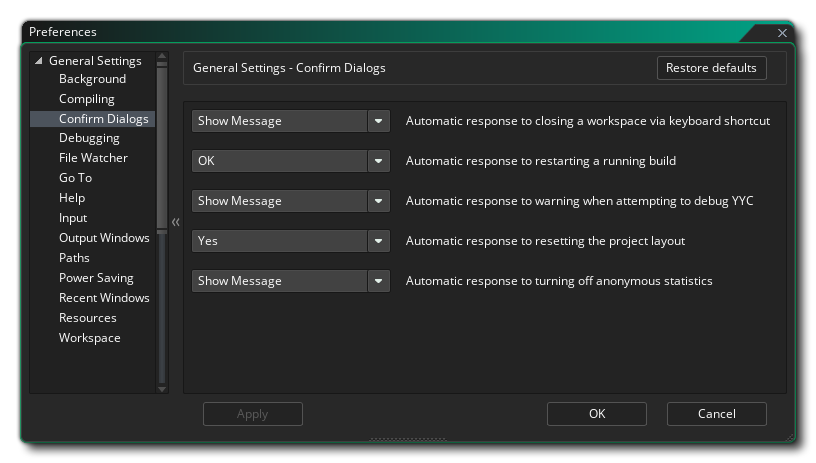
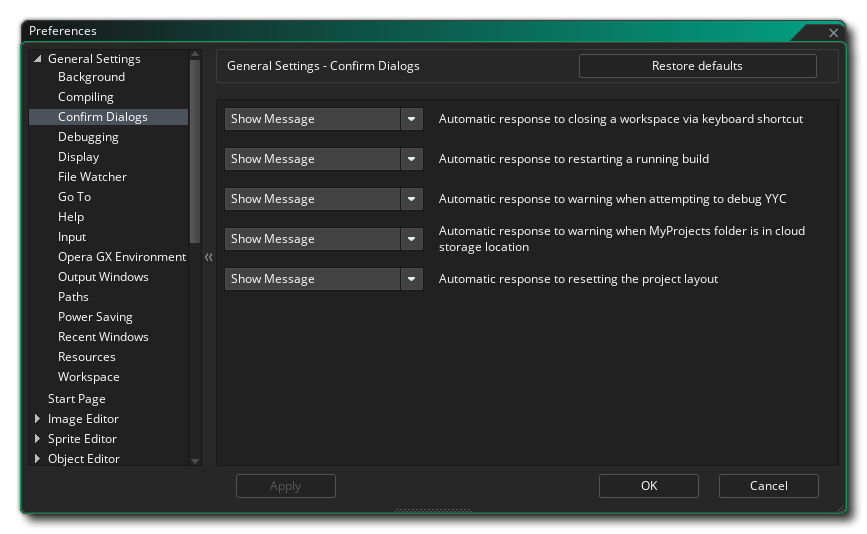
docs(general): updated confirm dialog preferences manual page YoYoGames/GameMaker-Bugs#11950
* Updated the screenshot
* Added the missing setting "Automatic response to warning when MyProjects folder is in cloud storage location"

Changed region(s): [[0.0, 0.0302, 1.0, 0.9978]]

diff --git a/Manual/contents/Setting_Up_And_Version_Information/IDE_Preferences/General/Confirm_Dialogs.htm b/Manual/contents/Setting_Up_And_Version_Information/IDE_Preferences/General/Confirm_Dialogs.htm
@@ -19,8 +19,9 @@
   <p>The Confirm Dialogue preferences deal with some of the general confirmation pop-ups that will appear when performing certain actions in the <span data-keyref="GameMaker Name">GameMaker</span> IDE. The options are:</p>
   <ul class="colour">
     <li><strong>Automatic response to closing a workspace via keyboard shortcut</strong>: The keyboard shortcut mentioned above can be used to close any open tab, but sometimes you may accidentally close an empty tab that you require. To prevent this you can set this option to &quot;Show message&quot; (the default option) to ask if you really want to close that empty tab. The other settings are &quot;No&quot;, to simply do nothing if the shortcut is used, or &quot;Okay&quot; to close the tab without any message.</li>
-    <li><strong>Automatic response to restarting a running build</strong>: When you restart a build and another previous one is still running, you will be asked whether you want to stop the current build first. Un checking this message will suppress that message and force <span data-keyref="GameMaker Name">GameMaker</span> to assume you had clicked &quot;Okay&quot; as a response. This option is set to &quot;Show Message&quot; by default.</li>
+    <li><strong>Automatic response to restarting a running build</strong>: When you restart a build and another previous one is still running, you will be asked whether you want to stop the current build first. Unchecking this message will suppress that message and force <span data-keyref="GameMaker Name">GameMaker</span> to assume you had clicked &quot;Okay&quot; as a response. This option is set to &quot;Show Message&quot; by default.</li>
     <li><strong>Automatic response to warning when attempting to debug YYC</strong>: The YYC target compiles to native code and as such cannot be debugged using the built-in debugger. When you try to use the debugger on the YYC target, you will get a warning informing you of this, and the fact that the project will be compiled using the VM instead. This option is set to &quot;Show Message&quot; by default, but setting it to &quot;OK&quot; will suppress this warning.</li>
+    <li><strong>Automatic response to warning when MyProjects folder is in cloud storage location</strong>: This setting determines the automatic response to the warning message that is shown when <span data-keyref="GameMaker Name">GameMaker</span> detects that the path you try to save the project to refers to a cloud storage location. It is set to &quot;Show Message&quot; by default.</li>
     <li><strong>Automatic response to resetting the project layout</strong>: When you select to reset the project layout (from the <a href="../../../IDE_Navigation/Menus/The_Layouts_Menu.htm">Layouts Menu</a>) you will, by default, be shown a warning message about how this will close any open resource windows. However you can suppress this message and automatically reset the layout by selecting &quot;Okay&quot;, or have it do nothing by selecting &quot;No&quot;. The default value is to have &quot;Show Message&quot;.</li>
   </ul>
   <p> </p>
